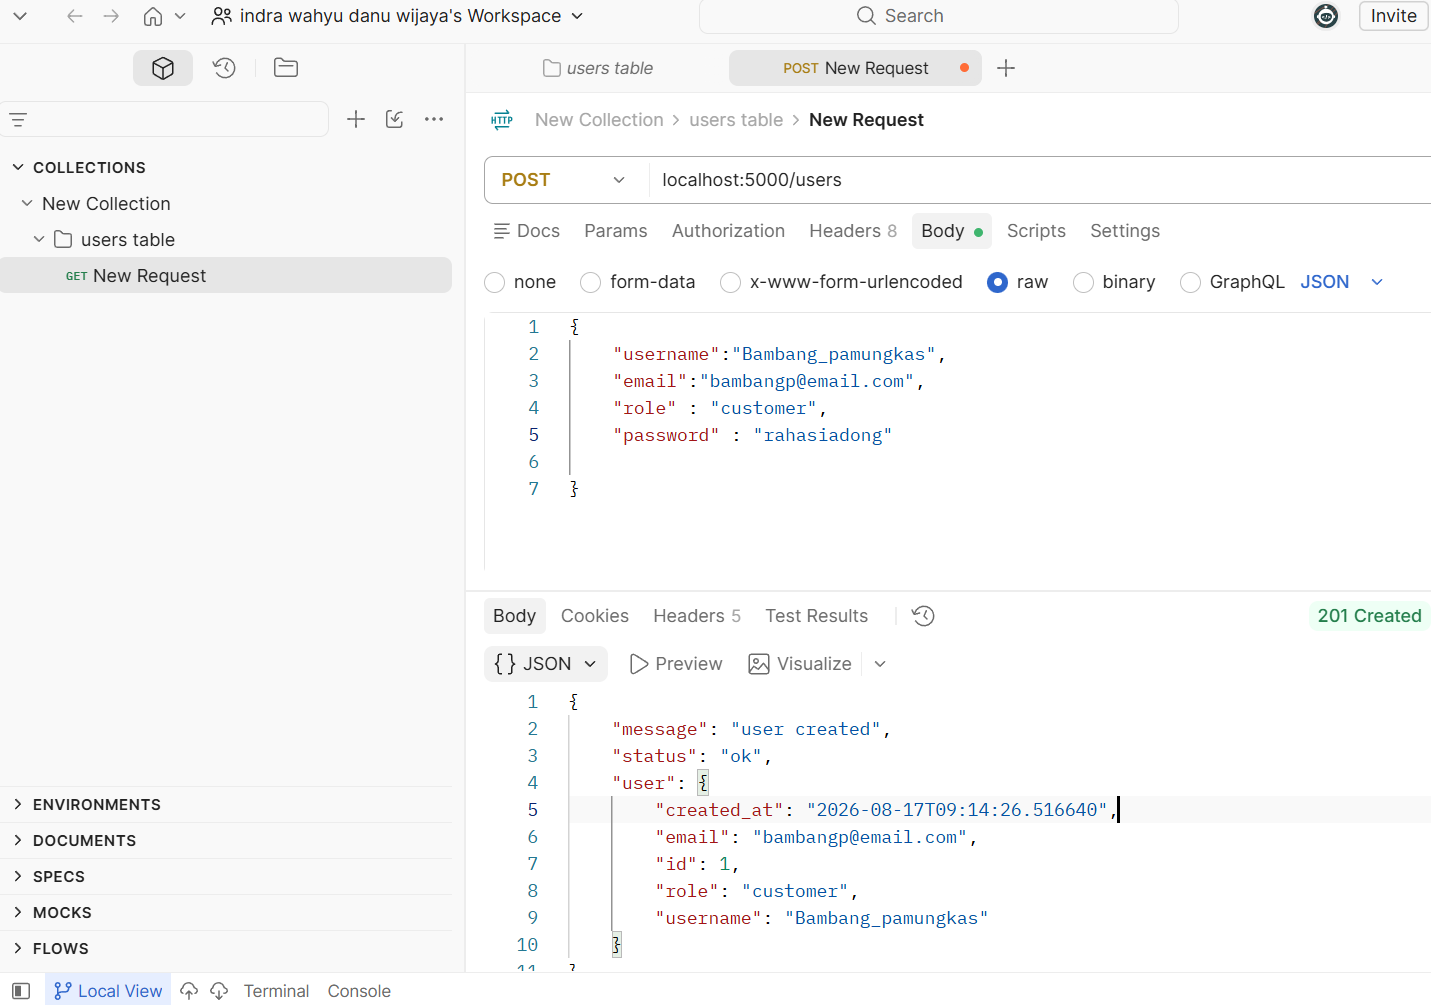
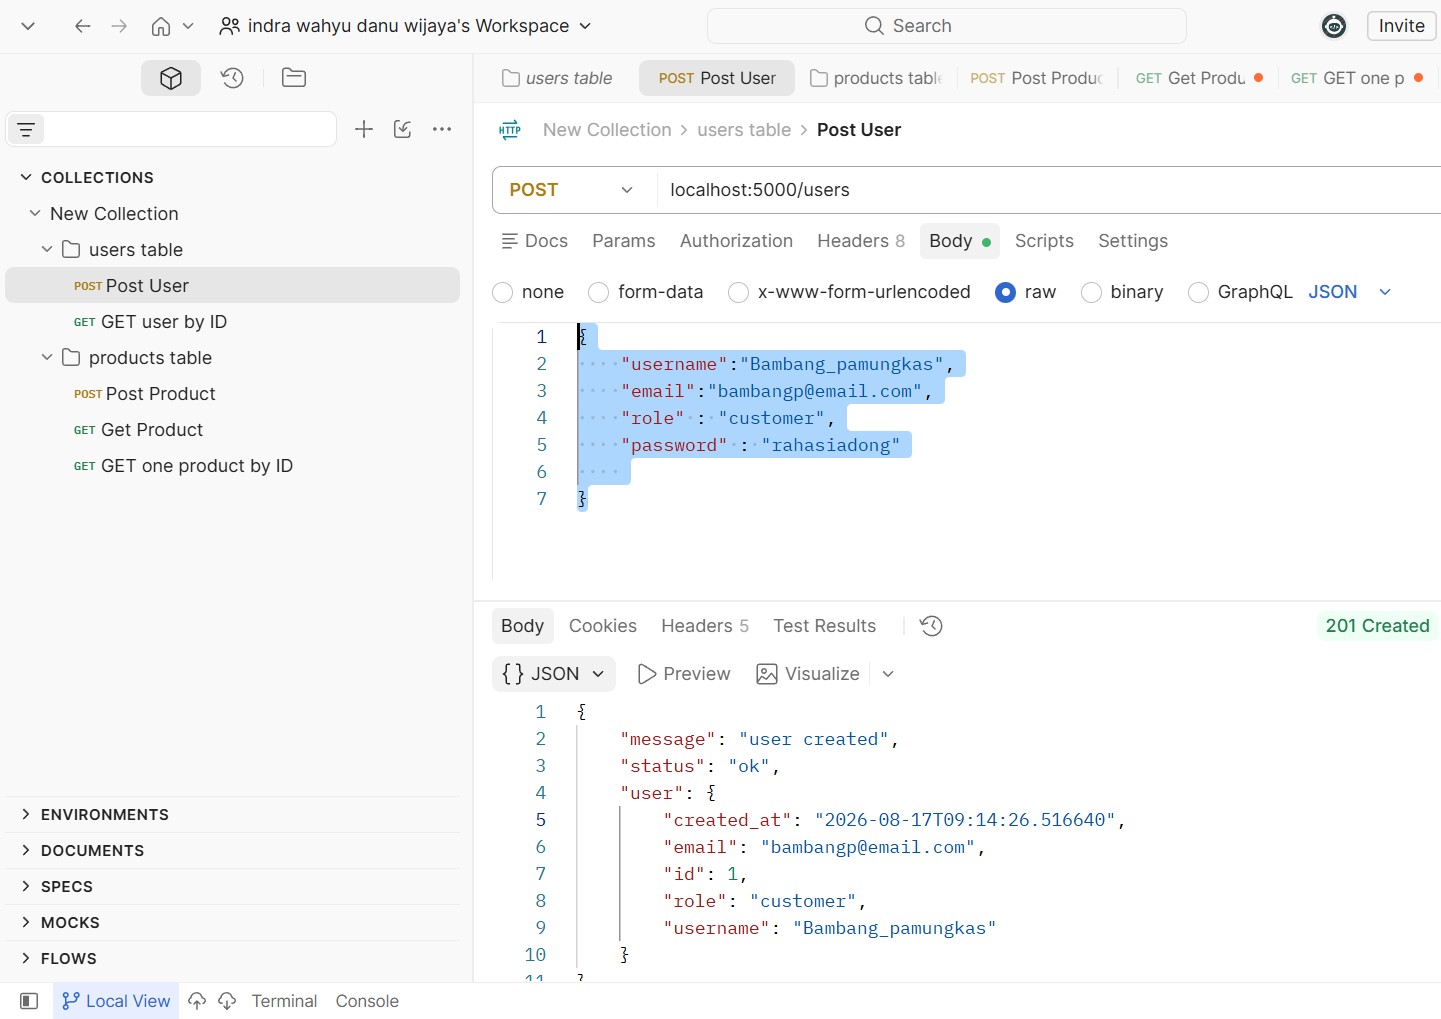
Update README and routes: enhance evidence section with new images, add user retrieval endpoint

diff --git a/routes.py b/routes.py
@@ -17,7 +17,7 @@ def home():
 
 
 # POST — create a product
-@main_bp.route('/products', methods=['POST'])
+@main_bp.route('/product', methods=['POST'])
 def create_product():
     try:
         data = request.get_json()
@@ -93,3 +93,16 @@ def create_user():
         return jsonify({"message" :"error creating user",
                         "error" : str(e),
                         "status" : "error"}),400
+
+# GET one user by ID
+@main_bp.route('/users/<int:user_id>', methods=['GET'])
+def get_user_by_id(user_id):
+    # TODO: Fetch product by ID; return 404 if not found
+    try:
+        user = User.query.get(user_id)
+        if user:
+            return jsonify(user.to_dict()), 200
+        else:
+            return jsonify({"error" : "user not found"}), 404
+    except Exception as e:
+        return jsonify({"error": str(e)}), 500

diff --git a/README.md b/README.md
@@ -13,11 +13,6 @@ You've just joined RevoShop as a backend developer. Before writing a single line
 - `routes.py` : Handles API endpoints, HTTP requests (GET, POST), business logic, and JSON responses.
 
 
-## How to Use
-1. Run `schema.sql` on PostgreSQL to set up the database tables.
-2. Run `seed.sql` to populate the tables with sample data.
-3. Run `queries.sql` to view and analyze the data.
-
 ## Flask intro
 
 ### 1 . Instalation and activation VENV
@@ -79,11 +74,37 @@ if __name__ == '__main__':
     }
 ```
 
-## Evidence & Testing POST product
+## Evidence 
+
+### Testing POST product
 ![evidence](image/post%20product.png)
 
-## Evidence & Testing GET all products
+### Testing GET all products
 ![evidence GET all products](image/Get%20Product.png)
 
-## Evidence & Testing GET products by ID
+### Testing GET products by ID
 ![Evidence & Testing GET products by ID](image/GET%20one%20product%20by%20ID.png)
+
+### Testing Handling Error 404
+![Evidence Testing Handling Error](image/Handling%20error%20404.PNG)
+
+## Sampe POST user table
+```bash
+{
+    "username":"Bambang_pamungkas",
+    "email":"bambangp@email.com",
+    "role" : "customer",
+    "password" : "rahasiadong"
+    
+}
+```
+### Testing POST user
+![evidence](image/post%20user.png)
+
+### Testing GET user by ID
+![evidence](image/GET%20user%20by%20ID.PNG)
+
+### Testing Handling Error 404
+![evidence](image/Handling%20error%20user.PNG)
+
+
